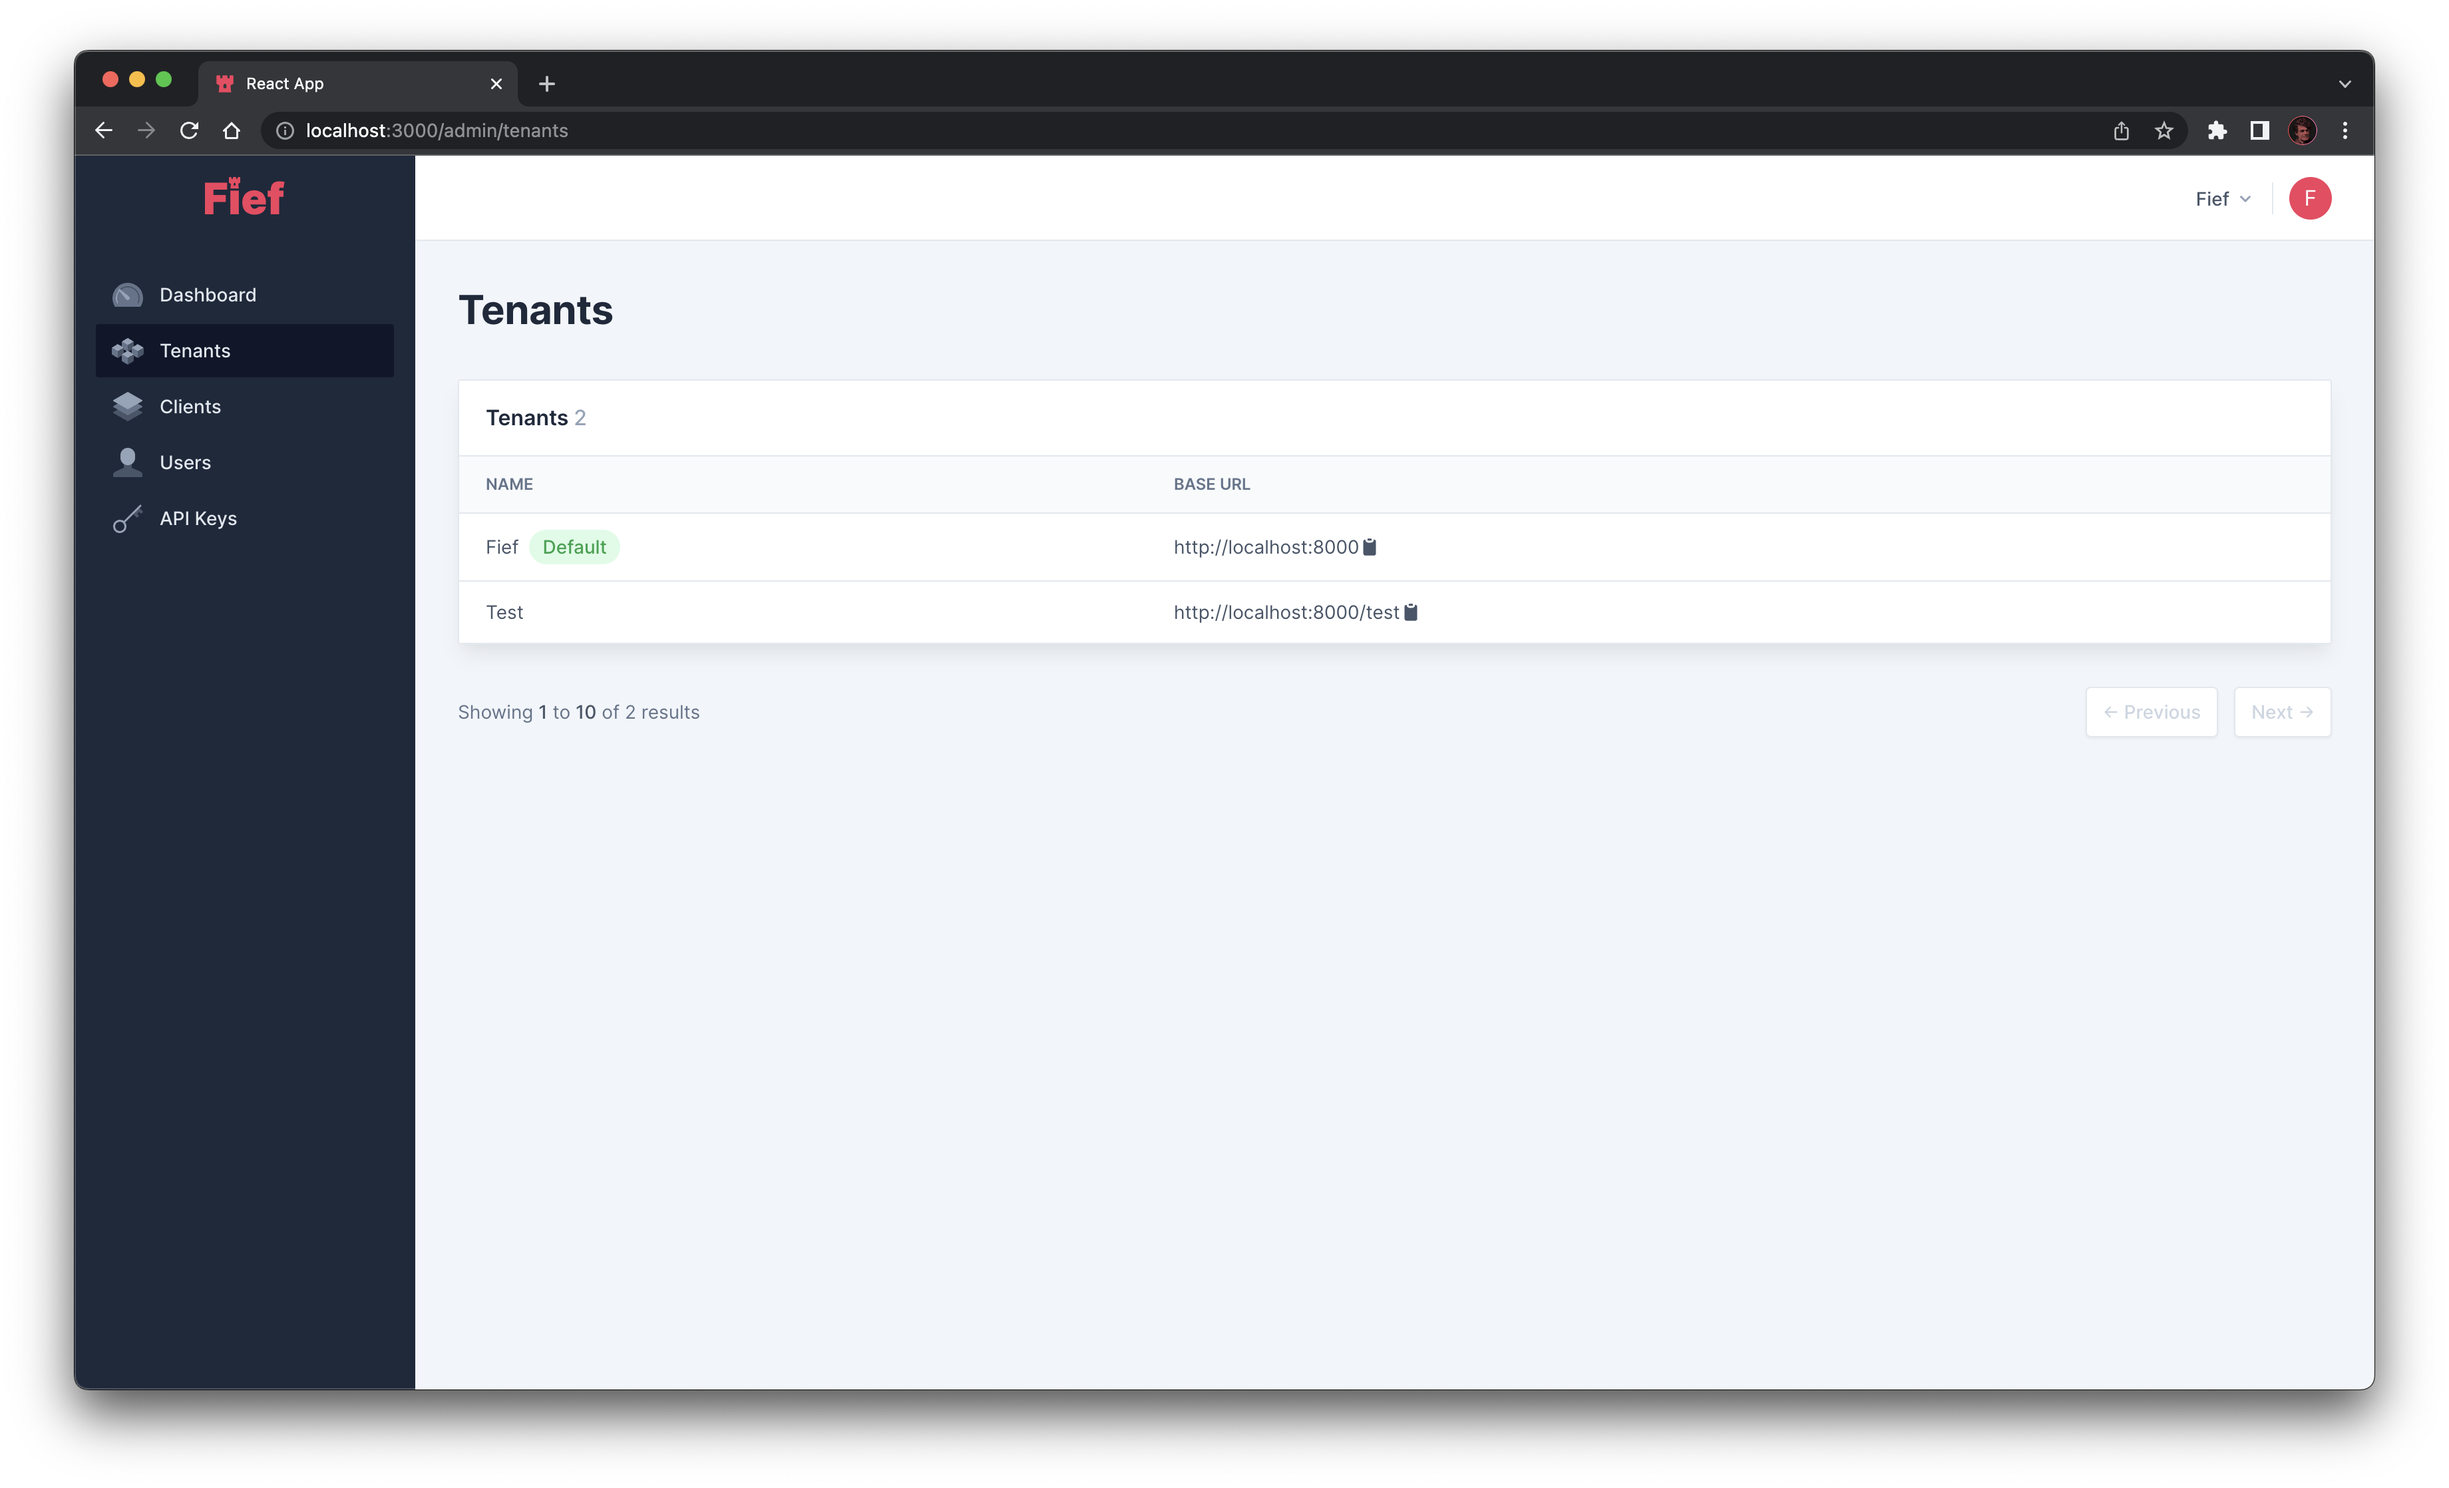
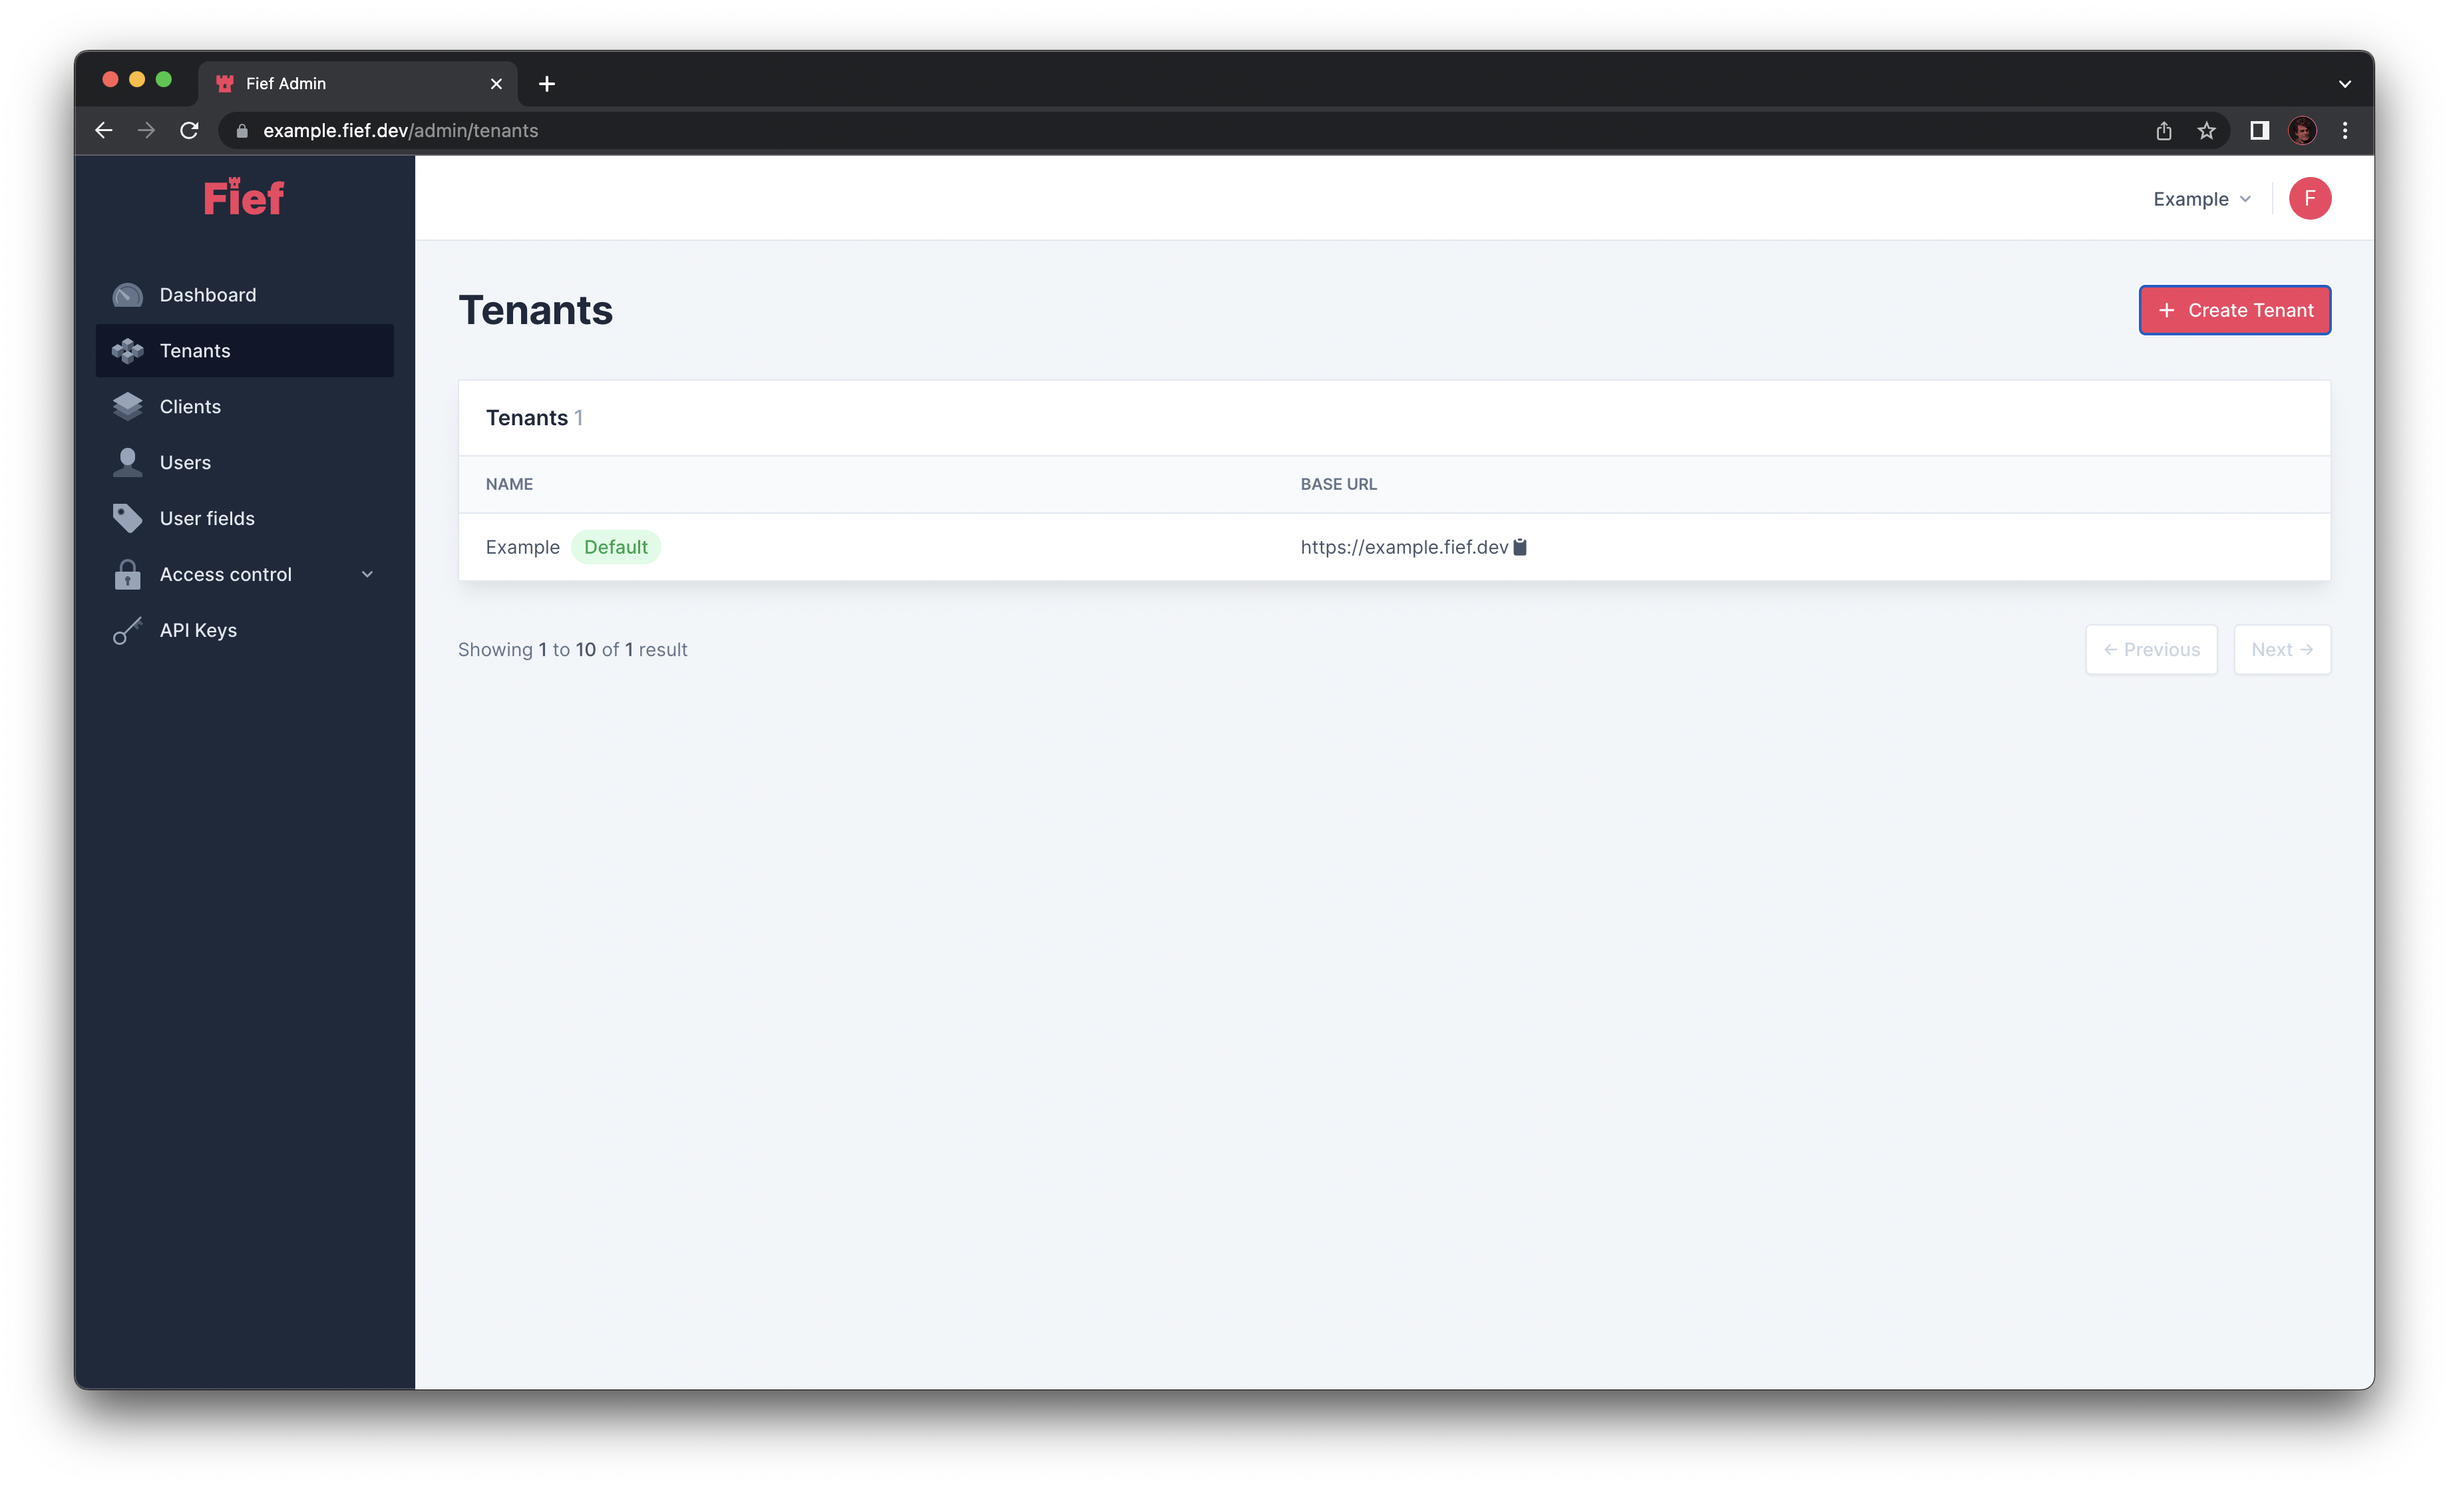
Add docs about Create Tenant from admin dashboard

diff --git a/docs/getting-started/tenants.md b/docs/getting-started/tenants.md
@@ -17,5 +17,8 @@ Other tenants gets a path prefix, like *https://example.fief.dev/other-tenant*.
 !!! tip
     You can copy the base URL directly using the clipboard button in the list.
 
-!!! bug "Limitation"
-    At the moment, new tenants can't be created from the admin dashboard.
+## Create a new tenant
+
+You can create a new tenant by clicking the **Create Tenant** button. A modal will open where you'll be able to input its name. The [base URL](#base-url) is automatically generated from the name.
+
+![Create tenant from admin dashboard](/assets/images/admin-tenants-create.png)
